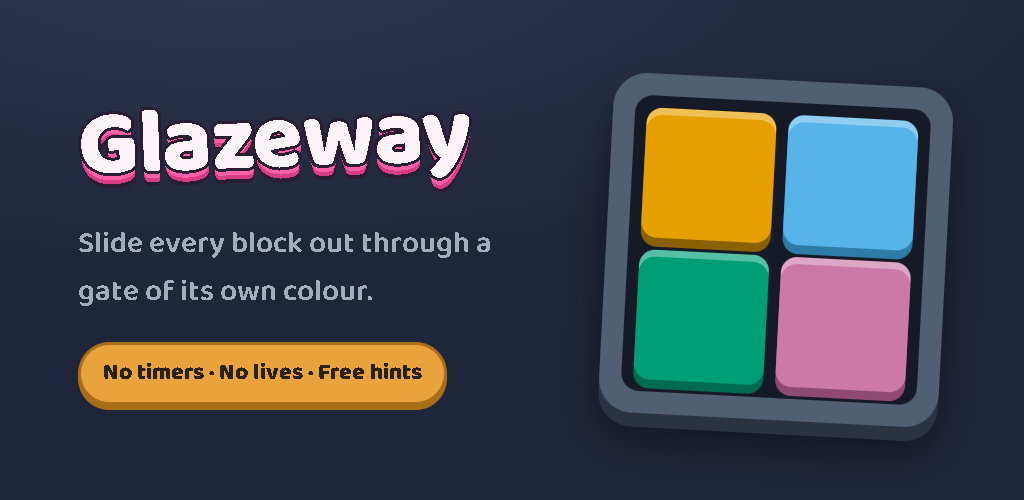
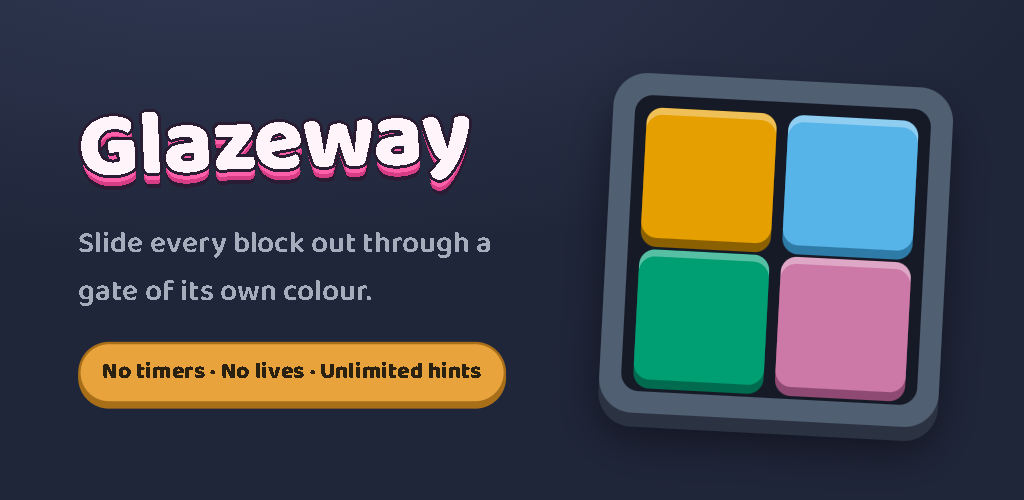
Feature graphic: 'Unlimited hints' instead of 'Free hints'
Play's listing rules count 'free' as a price word.

diff --git a/store/feature-graphic.html b/store/feature-graphic.html
@@ -106,7 +106,7 @@
     <div class="words">
       <h1>Glazeway</h1>
       <p>Slide every block out through a gate of its own colour.</p>
-      <span class="claim">No timers · No lives · Free hints</span>
+      <span class="claim">No timers · No lives · Unlimited hints</span>
     </div>
     <div class="tray">
       <div class="floor">
